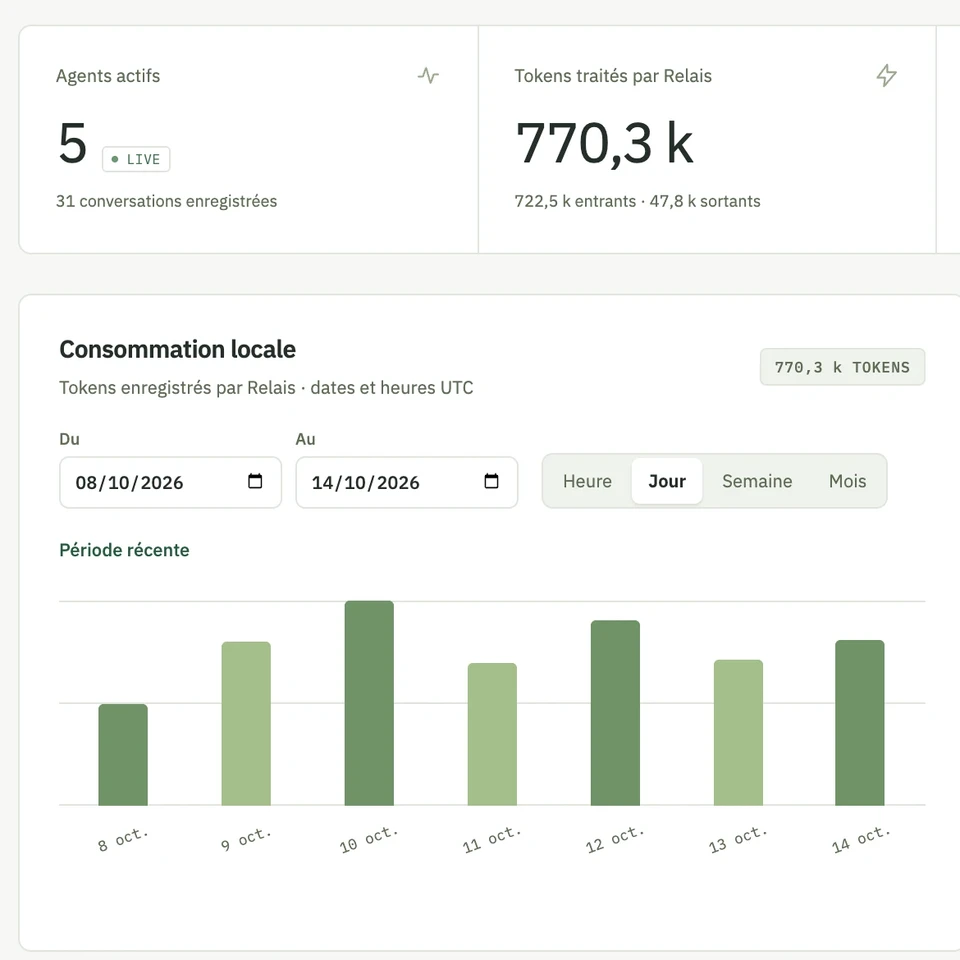
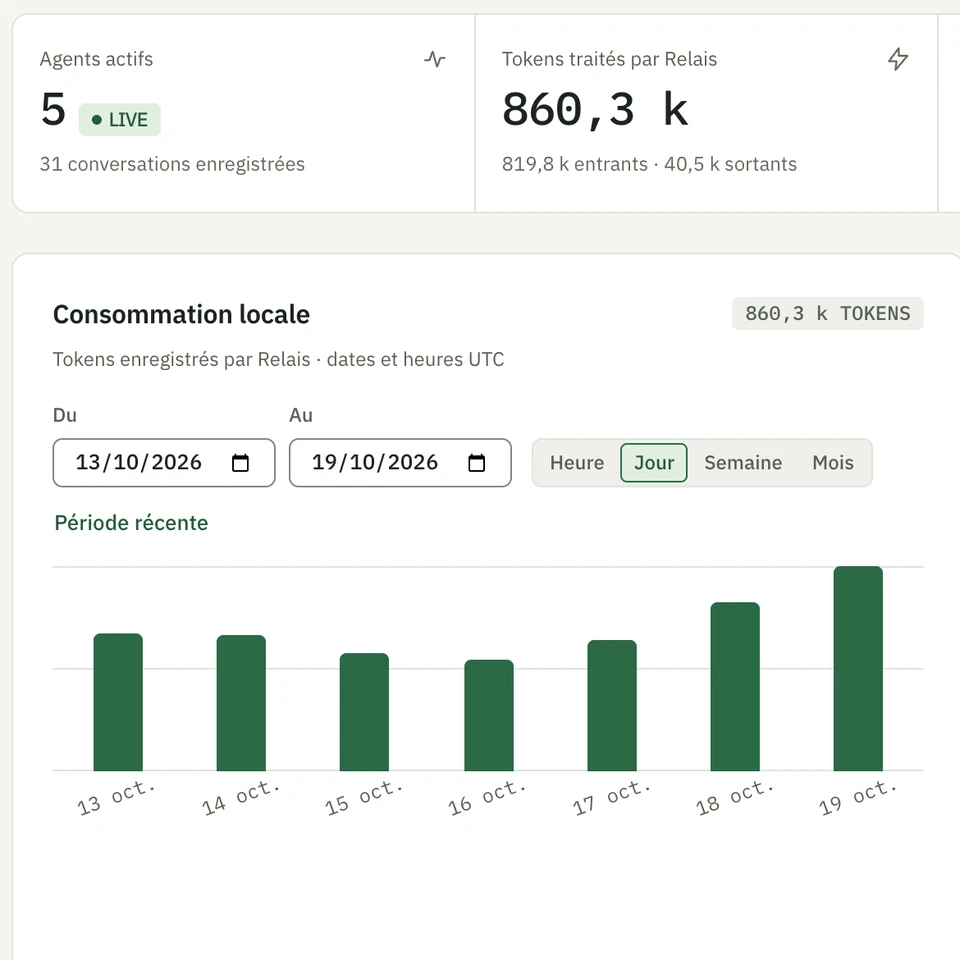
feat(site): refaire les captures de Relais après sa refonte
L'interface de Relais a changé depuis la série du 14/10 : les cinq
écrans sont repris à la révision e00f22b sur des données de
démonstration équivalentes. Cibles et loupes entourent de nouveau la
valeur qui prouve ; la note de sources et le registre décrivent la
vignette telle qu'elle est, un recadrage du tableau de bord.

diff --git a/site/src/config/relais.ts b/site/src/config/relais.ts
@@ -14,8 +14,9 @@
  * connexion automatisée d’un compte (cadrage validé tel qu’affiché le
  * 15/10/2026, docs/prive/questions.md, J).
  *
- * Captures : Relais 0.2.0 lancé en local avec des données de démonstration,
- * un agent de démonstration à la place de Claude Code
+ * Captures : Relais 0.2.0 lancé en local le 19/10/2026 à la révision e00f22b,
+ * après la refonte graphique de son interface, avec des données de
+ * démonstration et un agent de démonstration à la place de Claude Code
  * (src/assets/projets/relais/README.md).
  */
 import type { EntreeSommaire } from './navigation';
@@ -197,34 +198,37 @@ export const CAPTURES: Readonly<Record<NomCapture, CaptureRelais>> = {
   'conversation-perimetre': {
     alt: typo('Une conversation dans Relais : chaque appel d’outil suivi de sa décision ; la lecture d’un fichier hors du périmètre échoue, avec son motif.'),
     legende: 'Lecture refusée hors du périmètre, motif à l’appui, sur des données de démonstration ; la réponse vient d’un agent de démonstration. À droite, les dossiers ouverts en lecture et en écriture.',
-    // « Échec » sur la lecture refusée ; la loupe sur le motif rendu par Relais,
-    // la phrase entière (x 14,5 à 42,4 % de l’image).
-    cible: { x: 60.2, y: 38.2 },
-    loupe: { x: 28.5, y: 58.4, zoom: 3.3, largeur: 60, ratio: '4 / 1', coin: 'haut-droite', dessous: true },
+    // L’anneau autour d’« Échec », sur la lecture refusée ; la loupe sur le motif
+    // rendu par Relais, la phrase entière (x 14,5 à 42,4 % de l’image), posée en
+    // bas pour ne pas couvrir la cible.
+    cible: { x: 58.7, y: 14.4 },
+    loupe: { x: 28.5, y: 32.7, zoom: 3.3, largeur: 60, ratio: '9 / 2', coin: 'bas-droite', dessous: true },
   },
   capacite: {
     alt: typo('La capacité de trois abonnements de démonstration : quotas de cinq heures et de sept jours, chacun face au repère de son seuil de protection.'),
     legende: 'Le quota de cinq heures de l’abonnement « Personnel » : 35,8 %, sous le repère de son seuil de protection. Les trois abonnements de démonstration sont disponibles.',
-    // Le repère du seuil sur la jauge de cinq heures de « Personnel » ; la loupe
-    // sur cette jauge, son pourcentage et sa réinitialisation (x 34,4 à 48,4 %).
-    cible: { x: 47.7, y: 52.4 },
-    loupe: { x: 41.3, y: 52.4, zoom: 6, largeur: 50, ratio: '3 / 1', coin: 'haut-droite', dessous: true },
+    // L’anneau autour du pourcentage de la jauge de cinq heures de « Personnel »
+    // et de son repère de seuil ; la loupe sur cette jauge, son repère, son
+    // pourcentage et sa réinitialisation (x 39,7 à 50,3 % de l’image).
+    cible: { x: 48.8, y: 51 },
+    loupe: { x: 45, y: 52.9, zoom: 6, largeur: 50, ratio: '3 / 1', coin: 'haut-droite', dessous: true },
   },
   'garde-fous': {
     alt: typo('Les garde-fous d’un abonnement : nouvelles sessions refusées dès 95 % du quota ; une session déjà ouverte n’est jamais coupée.'),
     legende: 'Le seuil de protection : nouvelles sessions refusées dès 95 % du quota, par défaut. Une session déjà ouverte n’est jamais coupée.',
-    // Le champ « 95 », la cible un peu sous son centre : sa pastille reste à
-    // gauche du libellé ; la loupe sur ce champ et son libellé (x 39 à 66 %).
-    cible: { x: 39.6, y: 70 },
-    loupe: { x: 52.6, y: 66, zoom: 3.4, largeur: 58, ratio: '9 / 2', coin: 'haut-droite', dessous: true },
+    // L’anneau autour du « 95 », un peu sous son centre : sa pastille reste à
+    // gauche du libellé ; la loupe sur ce champ, son libellé et son aide (x 39 à
+    // 66,4 %).
+    cible: { x: 40.45, y: 58 },
+    loupe: { x: 52.7, y: 55.6, zoom: 3.3, largeur: 58, ratio: '9 / 2', coin: 'haut-droite', dessous: true },
   },
   analyse: {
     alt: typo('L’analyse de Relais sur des données de démonstration : durée médiane des tours, durée sous laquelle tombent 95 % d’entre eux, débit, et part des tokens relus depuis le cache.'),
     legende: 'La durée d’un tour : la médiane, et le P95, sous lequel tombent 95 % des tours. Calculés par Relais sur les données de démonstration.',
-    // Le P95 d’un tour, la pastille à gauche de son libellé ; la loupe sur la
-    // médiane et le P95 seuls (x 21 à 41 %).
-    cible: { x: 33.2, y: 30.5 },
-    loupe: { x: 31.2, y: 28, zoom: 4.8, largeur: 60, ratio: '7 / 2', coin: 'bas-droite', dessous: true },
+    // L’anneau autour du P95 d’un tour, « 32,5 s » ; la loupe sur la médiane et
+    // le P95 seuls (x 20,7 à 40,9 %).
+    cible: { x: 33, y: 26.5 },
+    loupe: { x: 30.8, y: 24.1, zoom: 4.6, largeur: 60, ratio: '7 / 2', coin: 'bas-droite', dessous: true },
   },
 };
 

diff --git a/site/src/config/visuels.ts b/site/src/config/visuels.ts
@@ -2818,8 +2818,8 @@ export const VISUELS: readonly EntreeVisuel[] = [
     page: '/projets/relais',
     emplacement: 'En-tête, § le périmètre, § la capacité, § l’analyse ; carte de la vitrine (/projets)',
     sujet: 'Les écrans de Relais, sur des données de démonstration',
-    composition: 'Écrans réels de Relais 0.2.0 lancé en local (abonnements, projets et conversations inventés, un agent de démonstration à la place du CLI, aucun compte réel), fenêtre de 1 440 × 900 en densité 2, sans retouche ni recomposition ; la vignette de la carte est un recadrage du panneau de pilotage de la conversation',
-    format: 'format natif des écrans, 2880 × 1800 ; vignette 610 × 490',
+    composition: 'Écrans réels de Relais 0.2.0 lancé en local à la révision e00f22b, après la refonte graphique de son interface (abonnements, projets et conversations inventés, un agent de démonstration à la place du CLI, aucun compte réel), fenêtre de 1 440 × 900 en densité 2, sans retouche ni recomposition ; la vignette de la carte est un recadrage du tableau de bord',
+    format: 'format natif des écrans, 2880 × 1800 ; vignette 960 × 960',
     ratio: null,
     methode: 'CAP',
     priorite: 'socle',

diff --git a/site/tests/e2e/relais.spec.ts b/site/tests/e2e/relais.spec.ts
@@ -87,6 +87,8 @@ test('dépôt privé : aucune sortie du site, ni nom privé, ni bascule entre ab
   // Les chiffres des écrans ne passent pas pour un usage réel.
   await expect(page.locator('#sources')).toContainText('données de démonstration');
   await expect(page.locator('#sources')).toContainText('bdf041f');
+  // Les captures sont prises après la refonte graphique de l’interface.
+  await expect(page.locator('#sources')).toContainText('e00f22b');
 });
 
 test('le point d’accès : la figure, et les liens vers Sillage et Karl Scraper', async ({ page }) => {

diff --git a/site/src/config/pages.ts b/site/src/config/pages.ts
@@ -22,7 +22,7 @@ export const PAGES_SITEMAP = [
   { chemin: '/projets/githealth', maj: '2026-10-16' },
   { chemin: '/projets/karl-scraper', maj: '2026-10-19' },
   { chemin: '/projets/sillage', maj: '2026-10-16' },
-  { chemin: '/projets/relais', maj: '2026-10-16' },
+  { chemin: '/projets/relais', maj: '2026-10-19' },
   { chemin: '/parcours', maj: '2026-10-15' },
   { chemin: '/parcours/professionnel', maj: '2026-10-15' },
   { chemin: '/parcours/competences', maj: '2026-10-15' },

diff --git a/site/src/assets/projets/relais/README.md b/site/src/assets/projets/relais/README.md
@@ -1,16 +1,18 @@
-# Captures de Relais (14 octobre 2026)
+# Captures de Relais (19 octobre 2026)
 
-Vraies vues de Relais **0.2.0**, lu à la révision **`bdf041f`** de sa branche de développement
-(14 octobre 2026). Le dépôt est privé : il n’est ni lié ni nommé sur le site (décision de Charles
-du 14/10/2026).
+Vraies vues de Relais **0.2.0**, lu à la révision **`e00f22b`** de sa branche de développement
+(16 octobre 2026), après la refonte graphique de son interface. Cette série remplace celle du
+14 octobre 2026 (révision `bdf041f`), prise avant la refonte. Le dépôt est privé : il n’est ni lié
+ni nommé sur le site (décision de Charles du 14/10/2026).
 
 Méthode, sans rien modifier dans le dépôt de Relais :
 
-1. Copie temporaire du dépôt ; le binaire du serveur et l’interface déjà construits à cette
-   révision sont lancés tels quels, sans recompilation ni modification du code.
+1. Copie temporaire du dépôt ; le serveur Rust et l’interface Angular y sont construits tels quels
+   à cette révision, sans modification du code.
 2. Une instance de démonstration tourne en local, sur un port libre, avec un dossier personnel et
    un dossier de données isolés : aucune instance réelle, aucune donnée réelle, aucun service
-   distant n’est sollicité.
+   distant n’est sollicité. Les projets fictifs vivent dans un chemin neutre,
+   `/private/tmp/demo/workspace/`, le seul visible sur les captures.
 3. Un **agent de démonstration** remplace Claude Code. Dérivé du double de test du dépôt, il parle
    le même protocole et rejoue des tours écrits à l’avance (raisonnement, appels d’outils,
    réponse, consommation et quotas), sans inférence ni appel réseau. Chaque appel d’outil passe
@@ -19,30 +21,37 @@ Méthode, sans rien modifier dans le dépôt de Relais :
 4. Données inventées : trois abonnements (« Personnel », « Atelier », « Recherche », adresses en
    `example.invalid`), quotas fixés pour la démonstration et relus par la vraie synchronisation de
    Relais ; quatre projets fictifs ; des applications appelantes (« Sillage », « Revue de code »,
-   « Notes de version ») ; 26 conversations jouées puis antidatées sur les six jours précédents,
-   et 5 conversations ouvertes au moment des captures. Aucun abonnement de secours ni aucune
-   bascule n’est configurée.
+   « Notes de version ») ; 26 conversations jouées puis antidatées du 13 au 18 octobre, et
+   5 conversations ouvertes au moment des captures. Aucun abonnement de secours ni aucune bascule
+   n’est configurée.
 5. Chromium de Playwright, fenêtre de 1 440 × 900 en densité 2, thème clair, mouvement réduit,
-   `fr-FR`, fuseau Europe/Paris ; capture de la fenêtre après chargement des polices. Le script
-   ne fait que défiler, cliquer, saisir une date et mesurer : aucune écriture dans la page, aucun
-   texte remplacé. Les PNG sont convertis en WebP qualité 90 avec Sharp, sans recadrage, retouche
-   ni recomposition, sauf la vignette de la vitrine (voir le tableau).
+   `fr-FR`, fuseau Europe/Paris ; capture de la fenêtre après chargement des polices, le
+   19 octobre 2026 vers 10 h 18. Le script ne fait que défiler, cliquer, saisir une date et
+   mesurer : aucune écriture dans la page, aucun texte remplacé ; il refuse toute vue où une ligne
+   serait coupée par un bord. Les PNG sont convertis en WebP qualité 90 avec Sharp, sans
+   recadrage, retouche ni recomposition, sauf la vignette de la vitrine (voir le tableau).
 
 | Fichier | Scène | Dimensions | Usage |
 |---|---|---|---|
-| `dashboard.webp` | Dashboard : agents actifs, consommation du 8 au 14 octobre, capacité des trois abonnements | 2880 × 1800 | En-tête de `/projets/relais` |
+| `dashboard.webp` | Dashboard : agents actifs, consommation du 13 au 19 octobre, capacité des trois abonnements | 2880 × 1800 | En-tête de `/projets/relais` |
 | `conversation-perimetre.webp` | Conversation « Paginer la liste des produits » (Sillage, périmètre strict) : chaque appel d’outil suivi de sa décision, la lecture d’un fichier d’un autre projet refusée avec son motif ; panneau Pilotage | 2880 × 1800 | Section « Le périmètre » |
-| `capacite.webp` | Vue d’ensemble « Capacité des abonnements » : trois abonnements sous leur seuil de protection | 2880 × 1800 | Section « La capacité », « Voir » |
+| `capacite.webp` | Fenêtre « Capacité des abonnements » : trois abonnements sous leur seuil de protection | 2880 × 1800 | Section « La capacité », « Voir » |
 | `garde-fous.webp` | Abonnements › Personnel › Garde-fous : nouvelles sessions refusées dès 95 %, session ouverte jamais coupée | 2880 × 1800 | Section « La capacité », « Admettre » |
-| `analyse.webp` | Analyse › Performance et Cache : médiane et P95 des tours, débit, cache | 2880 × 1800 | Section « L’analyse » |
-| `carte-dashboard.webp` | Recadrage de `dashboard` sur les deux premiers compteurs et la consommation locale (zone de 1 170 × 1 170 à partir de 530, 440), ramené à 960 px, WebP qualité 90 | 960 × 960 | Carte de la vitrine (`/projets`) |
+| `analyse.webp` | Analyse : « Temps, débit et fiabilité » (médiane et P95 des tours, débit) et « La réutilisation du contexte » (cache) | 2880 × 1800 | Section « L’analyse » |
+| `carte-dashboard.webp` | Recadrage de `dashboard` sur les deux premiers compteurs et la consommation locale (zone de 1 170 × 1 170 à partir de 530, 340), ramené à 960 px, WebP qualité 90 | 960 × 960 | Carte de la vitrine (`/projets`) |
 
 Les chiffres visibles (tokens, coûts, durées, quotas, nombre d’agents) sont calculés par Relais
-sur ces données de démonstration : ils ne décrivent aucun usage réel. Les incohérences de format
-« 35.8 % » (Dashboard) et « 35,8 % » (vue d’ensemble) sont celles de l’application. La méta de
-l’en-tête de conversation tronquée en « S. » est l’affichage de l’application à 1 440 px.
+sur ces données de démonstration : ils ne décrivent aucun usage réel. Restent tels que
+l’application les affiche : « 35.8 % » (Dashboard) face à « 35,8 % » (fenêtre de capacité),
+« Tous les modèles · 7 jours » sur deux lignes dans la fenêtre de capacité, la méta de l’en-tête
+de conversation tronquée à 1 440 px, et le bouton flottant « Derniers messages », qui recouvre en
+partie le chemin du dernier appel. Les mots anglais de l’interface (« Dashboard », « LIVE »,
+« tokens », « P95 », noms des outils, modèle et intensité) restent tels qu’à l’écran.
 
 Laissés hors champ : Diagnostics (il présenterait l’agent de démonstration comme le runtime géré),
 la gestion des abonnements de Configuration (bascule entre abonnements), la connexion d’un
-abonnement et la page « Intégrer un outil » (clé et identifiants). Une sixième vue, une demande
-de permission, a été écartée : deux lignes y étaient coupées par les bords de la fenêtre.
+abonnement et la page « Intégrer un outil » (clé et identifiants).
+
+Les scripts de rejeu (préparation, agent de démonstration, données, antidatage, captures) sont
+hors du dépôt, avec la provenance détaillée de la série. Les heures, dates et réinitialisations
+affichées dépendent du moment du rejeu.

diff --git a/docs/visuels-a-generer.md b/docs/visuels-a-generer.md
@@ -2845,8 +2845,8 @@ Fiches pour mémoire : rien à produire.
 - **Emplacement** : `/projets/relais` · En-tête, § le périmètre, § la capacité, § l’analyse ; carte de la vitrine (/projets) _(contexte : ne pas le recopier dans un prompt)_
 - **Posé dans** : `src/pages/projets/relais.astro`, `src/config/relais.ts`
 - **Sujet** : Les écrans de Relais, sur des données de démonstration
-- **Composition** : Écrans réels de Relais 0.2.0 lancé en local (abonnements, projets et conversations inventés, un agent de démonstration à la place du CLI, aucun compte réel), fenêtre de 1 440 × 900 en densité 2, sans retouche ni recomposition ; la vignette de la carte est un recadrage du panneau de pilotage de la conversation
-- **Format** : format natif des écrans, 2880 × 1800 ; vignette 610 × 490
+- **Composition** : Écrans réels de Relais 0.2.0 lancé en local à la révision e00f22b, après la refonte graphique de son interface (abonnements, projets et conversations inventés, un agent de démonstration à la place du CLI, aucun compte réel), fenêtre de 1 440 × 900 en densité 2, sans retouche ni recomposition ; la vignette de la carte est un recadrage du tableau de bord
+- **Format** : format natif des écrans, 2880 × 1800 ; vignette 960 × 960
 - **Fichiers attendus** (6) : `site/src/assets/projets/relais/dashboard.webp` ; `site/src/assets/projets/relais/conversation-perimetre.webp` ; `site/src/assets/projets/relais/capacite.webp` ; `site/src/assets/projets/relais/garde-fous.webp` ; `site/src/assets/projets/relais/analyse.webp` ; `site/src/assets/projets/relais/carte-dashboard.webp`
 - **Alt prévu** (pour le HTML, jamais pour un prompt) : aucun, visuel décoratif
 - **Note** : Livrés le 14/10/2026, provenance dans src/assets/projets/relais/README.md ; leurs alts sont dans config/relais.ts. La vignette carte-dashboard, recadrage du Dashboard, est posée sur la carte de la vitrine par config/relais.ts (CARTE.visuel), dans un cadre navigateur ; les autres par la page.

diff --git a/site/src/assets/projets/README.md b/site/src/assets/projets/README.md
@@ -91,7 +91,7 @@ Sillage et Relais sont des dépôts privés : ni nommés ni liés, ici comme sur
 | [`githealth/`](githealth/README.md) | `GTH-C1` | `bd2e5c9` (`dev`, version affichée 0.2.0) | dépôts Git fabriqués, auteurs fictifs en `example.invalid` |
 | [`karl-scraper/`](karl-scraper/README.md) | `KSC-C1` | `4e054a3` (après la refonte graphique, 19/10/2026) | faux serveur source, trois projets et seize tâches fictifs |
 | [`sillage/`](sillage/README.md) | `SIL-C1` | `c256e76` | faux fournisseur des tests du dépôt, trois projets de démonstration |
-| [`relais/`](relais/README.md) | `REL-C1` | `bdf041f` (version 0.2.0) | agent de démonstration aux tours écrits à l’avance, sans inférence |
+| [`relais/`](relais/README.md) | `REL-C1` | `e00f22b` (version 0.2.0, après la refonte graphique, série du 19/10/2026) | agent de démonstration aux tours écrits à l’avance, sans inférence |
 
 ## Logos techniques
 
